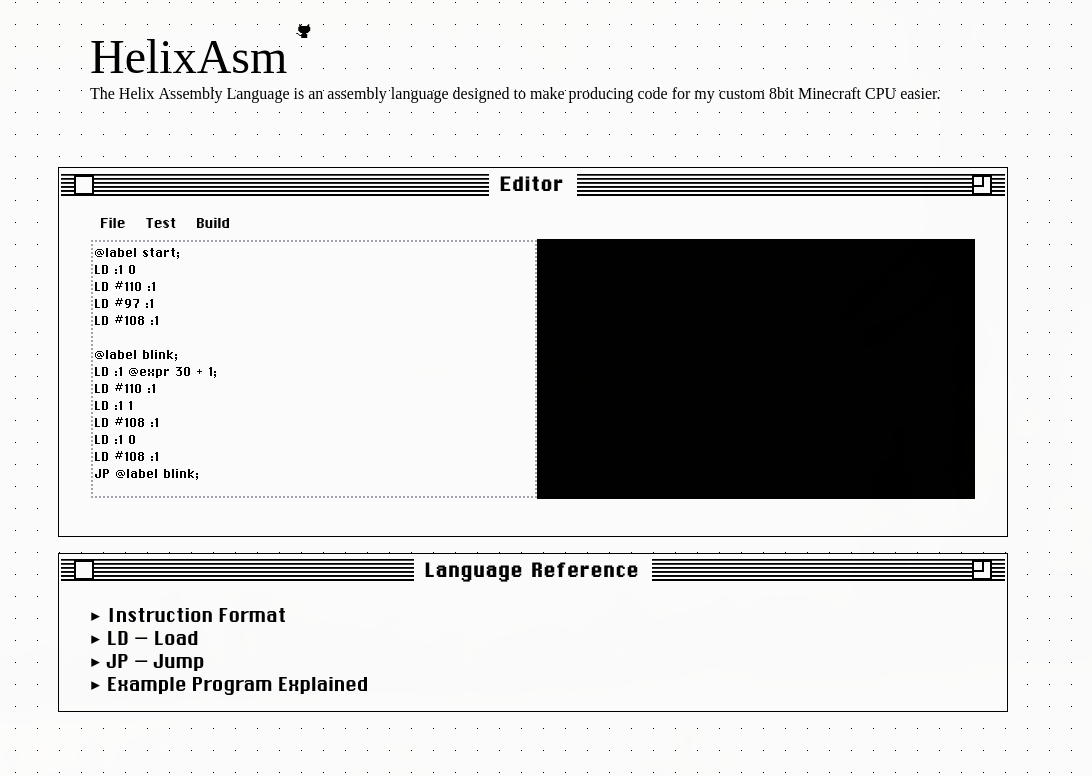
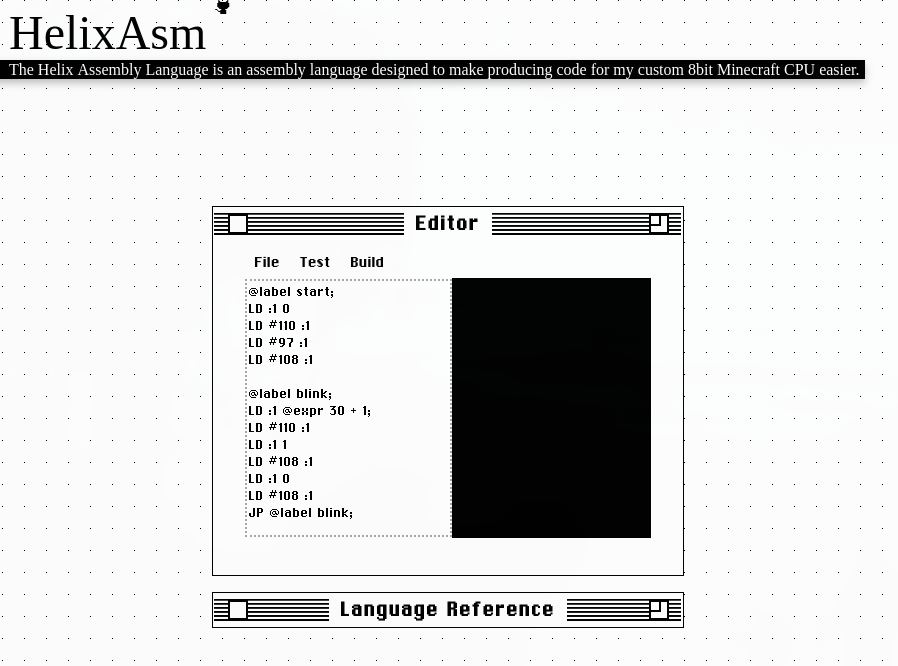
Styling changes, update preview image.

diff --git a/src/routes/index.jsx b/src/routes/index.jsx
@@ -2,6 +2,8 @@ import { createSignal, For, onMount, Show } from 'solid-js'
 
 import Editor from "~/components/Editor";
 import Reference from "~/components/Reference";
+import Header from '~/components/Header';
+
 import { Lexer } from 'helixasm/src/lib/lexer.mjs';
 import { Parser } from 'helixasm/src/lib/parser.mjs';
 import { CodeGen } from 'helixasm/src/lib/gen.mjs';
@@ -26,19 +28,19 @@ JP @label blink;
 `;
 
 export default function Home() {
-  const [editorState, setEditorState] = createSignal(true);
-  const [referenceState, setReferenceState] = createSignal(false);
-  const [parseModalState, setParseModalState] = createSignal(false);
-  const [errorModalState, setErrorModalState] = createSignal(false);
-  const [errorText, setErrorText] = createSignal(false);
-  const [source, setSource] = createSignal(example);
-  const [buildOutput, setBuildOutput] = createSignal('');
+  const [editorState, setEditorState]               = createSignal(false);
+  const [referenceState, setReferenceState]         = createSignal(false);
+  const [parseModalState, setParseModalState]       = createSignal(false);
+  const [errorModalState, setErrorModalState]       = createSignal(false);
+  const [errorText, setErrorText]                   = createSignal(false);
+  const [source, setSource]                         = createSignal(example);
+  const [buildOutput, setBuildOutput]               = createSignal('');
 
 
-  const [reportTokens, setReportTokens] = createSignal([]);
+  const [reportTokens, setReportTokens]             = createSignal([]);
   const [reportInstructions, setReportInstructions] = createSignal([]);
-  const [reportExpressions, setReportExpressions] = createSignal([]);
-  const [reportLabels, setReportLabels] = createSignal([]);
+  const [reportExpressions, setReportExpressions]   = createSignal([]);
+  const [reportLabels, setReportLabels]             = createSignal([]);
 
   const testProgram = () => {
     try {
@@ -105,97 +107,88 @@ export default function Home() {
   
   return (
     <div>
-      <div class="hlx-title">
-        <p class="hlx-header">HelixAsm</p>
-        <a
-          href="https://github.com/NullRoz007/HelixAsm/tree/main">
-          <i class="nes-icon github"></i>
-        </a>
-      </div>
-
-      <p class="hlx-desc">
-        The Helix Assembly Language is an assembly language designed to make producing code for my custom 8bit Minecraft CPU easier.
-      </p>
-
-      <div class="window" id="main-window">
-        <div class="title-bar">
-          <button aria-label="Close" class="close"></button>
-          <h1 class="title">Editor</h1>
-          <button aria-label="Resize" class="resize" onClick={() => setEditorState(!editorState())}></button>
-        </div>
-        <Show when={editorState()}>
-          <div class="window-pane" id="editor-window-pane">
-            <Editor 
-              editorWrapper={editorHandler}
-            />
+      <Header/>
+      <div class="content-wrapper"> 
+        <div class="window" id="main-window">
+          <div class="title-bar">
+            <button aria-label="Close" class="close"></button>
+            <h1 class="title">Editor</h1>
+            <button aria-label="Resize" class="resize" onClick={() => setEditorState(!editorState())}></button>
           </div>
-        </Show>
-      </div>
-
-      <div class="window" id="ref-window">
-        <div class="title-bar">
-          <button aria-label="Close" class="close"></button>
-          <h1 class="title">Language Reference</h1>
-          <button aria-label="Resize" class="resize" onClick={() => setReferenceState(!referenceState())}></button>
+          <Show when={editorState()}>
+            <div class="window-pane" id="editor-window-pane">
+              <Editor 
+                editorWrapper={editorHandler}
+              />
+            </div>
+          </Show>
         </div>
-        <Show when={referenceState()}>
-          <div class="window-pane">
-            <Reference />
+
+        <div class="window" id="ref-window">
+          <div class="title-bar">
+            <button aria-label="Close" class="close"></button>
+            <h1 class="title">Language Reference</h1>
+            <button aria-label="Resize" class="resize" onClick={() => setReferenceState(!referenceState())}></button>
           </div>
-        </Show>
+          <Show when={referenceState()}>
+            <div class="window-pane">
+              <Reference />
+            </div>
+          </Show>
+        </div>
       </div>
 
       <Show when={errorModalState()}>
-        <Modal
-          title="Error during build!"
-          onClose={() => {setErrorModalState(false)}}
-        >
-          <p>{errorText()}</p>
-        </Modal>
-      </Show>
+          <Modal
+            title="Error during build!"
+            onClose={() => {setErrorModalState(false)}}
+          >
+            <p>{errorText()}</p>
+          </Modal>
+        </Show>
 
-      <Show when={parseModalState()}>
-        <Modal 
-          title="Parse Results"
-          onClose={() => {setParseModalState(false)}}
-        >
-          <details>
-            <summary>Tokens</summary>
-            <ol>
-              <For each={reportTokens()}>{(token, i) =>
-                <li><p>{token.type + ' ' + (token.value || '')}</p></li>
-              }</For>
-            </ol>
-          </details>
+        <Show when={parseModalState()}>
+          <Modal 
+            title="Parse Results"
+            onClose={() => {setParseModalState(false)}}
+          >
+            <details>
+              <summary>Tokens</summary>
+              <ol>
+                <For each={reportTokens()}>{(token, i) =>
+                  <li><p>{token.type + ' ' + (token.value || '')}</p></li>
+                }</For>
+              </ol>
+            </details>
 
-          <details>
-            <summary>Instructions</summary>
-            <ol>
-              <For each={reportInstructions()}>{(inst, i) =>
-                <li><p>{inst.toString()}</p></li>
-              }</For>
-            </ol>
-          </details>
+            <details>
+              <summary>Instructions</summary>
+              <ol>
+                <For each={reportInstructions()}>{(inst, i) =>
+                  <li><p>{inst.toString()}</p></li>
+                }</For>
+              </ol>
+            </details>
 
-          <details>
-            <summary>Expressions</summary>
-            <ol>
-              <For each={reportExpressions()}>{(expr, i) =>
-                <li><p>{expr.expr + ' = ' + (expr.value || '??')}</p></li>
-              }</For>
-            </ol>
-          </details>
+            <details>
+              <summary>Expressions</summary>
+              <ol>
+                <For each={reportExpressions()}>{(expr, i) =>
+                  <li><p>{expr.expr + ' = ' + (expr.value || '??')}</p></li>
+                }</For>
+              </ol>
+            </details>
 
-          <details>
-            <summary>Labels</summary>
-            <ol>
-              <For each={reportLabels()}>{(label, i) =>
-                <li><p>{label.name + ' = ' + (label.pos)}</p></li>
-              }</For>
-            </ol>
-          </details>
-        </Modal>
-      </Show>
+            <details>
+              <summary>Labels</summary>
+              <ol>
+                <For each={reportLabels()}>{(label, i) =>
+                  <li><p>{label.name + ' = ' + (label.pos)}</p></li>
+                }</For>
+              </ol>
+            </details>
+          </Modal>
+        </Show>
     </div>
   );
 }

diff --git a/src/app.css b/src/app.css
@@ -1,6 +1,5 @@
 html, body {
   overflow-x: hidden;
-
 }
 
 body {
@@ -18,7 +17,31 @@ main {
   margin: 0 auto;
 }
 
+.content-wrapper {
+  position: absolute;
+  top: 15rem;
+  left: 50%;
+  height: 100vh;
+
+  transform: translateX(-50%);
+  z-index: 0;
+}
+
 .hlx-header {
+  position: fixed;
+  left: 0px;
+  z-index: 1;
+  width: 100vw;
+  background: linear-gradient(90deg,#fff 21px,transparent 1%) 50%,linear-gradient(#fff 21px,transparent 1%) 50%,#000;
+  background-attachment: fixed;
+  background-size: 22px 22px;
+  border: 0;
+  margin-bottom: 0px;
+  padding-bottom: 0px;
+
+}
+
+.hlx-title-text {
   font-size: 48px;
   padding-left: 1em;
   margin-bottom: 0px;
@@ -27,10 +50,15 @@ main {
 
 .hlx-desc {
   margin-top: 0;
+  margin-bottom: 0;
   font-size: 16px;
   padding-left: 3em;
-  padding-bottom: 3em;
   font-family: FindersKeepers;
+  background-color: black;
+  color: white;
+
+  box-shadow: 0 4px 8px rgba(0, 0, 0, 0.25);
+  width: 91vw;
 }
 
 .hlx-title {
@@ -54,10 +82,25 @@ main {
   width: 50vw;
   left: 50%;
   transform: translateX(-50%);
+  
 }
 
 #editor-window-pane {
   overflow-y: hidden;
+}
+
+::-webkit-scrollbar {
+  width: 0px !important;
+  height: 0px !important;
+}
+
+::-webkit-scrollbar-thumb {
+  background-color: unset !important;
+  border-radius: unset !important;
+}
+
+::-webkit-scrollbar-track {
+  background-color: unset !important;
 }
 
 @media (min-width: 480px) {

diff --git a/src/components/Modal.jsx b/src/components/Modal.jsx
@@ -3,13 +3,13 @@ export default function Modal(props) {
     return (
     <div class="modal-overlay" onClick={() => props.onClose()}>
         <div class="standard-dialog center scale-down" id="error-modal" onClick={(e) => e.stopPropagation()}>
-        <div class="modal-contents">
-            <h1 class="modal-text">{props.title}</h1>
-            {props.children}
-            <section id="modal-row-btn" class="field-row" style="justify-content: flex-end">
-                <button class="btn" onClick={() => props.onClose()}>OK</button>
-            </section>
-        </div>
+            <div class="modal-contents">
+                <h1 class="modal-text">{props.title}</h1>
+                {props.children}
+                <section id="modal-row-btn" class="field-row" style="justify-content: flex-end">
+                    <button class="btn" onClick={() => props.onClose()}>OK</button>
+                </section>
+            </div>
         </div>
     </div>
     );

diff --git a/src/components/Header.jsx b/src/components/Header.jsx
@@ -1,0 +1,16 @@
+export default function Header() {
+    return (
+        <div class="hlx-header">
+            <div class="hlx-title">
+                <p class="hlx-title-text">HelixAsm</p>
+                <a
+                    href="https://github.com/NullRoz007/HelixAsm/tree/main">
+                    <i class="nes-icon github"></i>
+                </a>  
+            </div>
+            <p class="hlx-desc">
+                The Helix Assembly Language is an assembly language designed to make producing code for my custom 8bit Minecraft CPU easier.
+            </p>
+        </div>
+    );
+}

diff --git a/src/components/references/3_ExampleProg.jsx b/src/components/references/3_ExampleProg.jsx
@@ -33,7 +33,7 @@ JP @label blink;     ; Jump back to blink`;
 
                 <h3>blink</h3>
                 <pre><code>{blinkProgram}</code></pre>
-                <p>This section blinks a pixel by repeatedly storing values in memory.</p>
+                <p>This section blinks a pixel by repeatedly setting the Video Control Byte to 0x1/0x0</p>
                 <p>Except for the expression-based load, all values written to <code>:1</code> are immediates or copied to memory as shown.</p>
             </section>
         </details>
